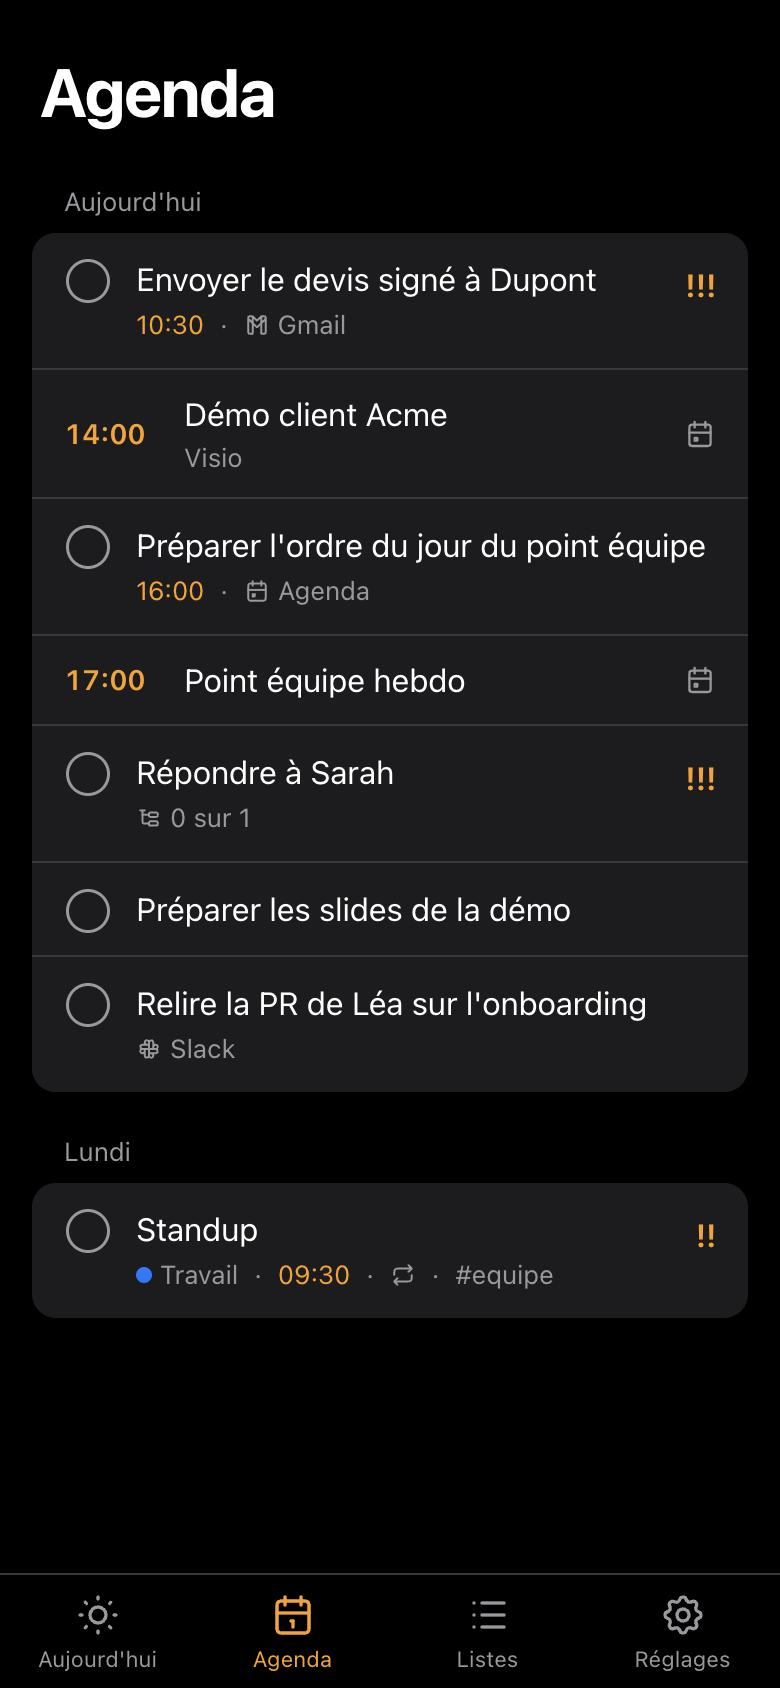
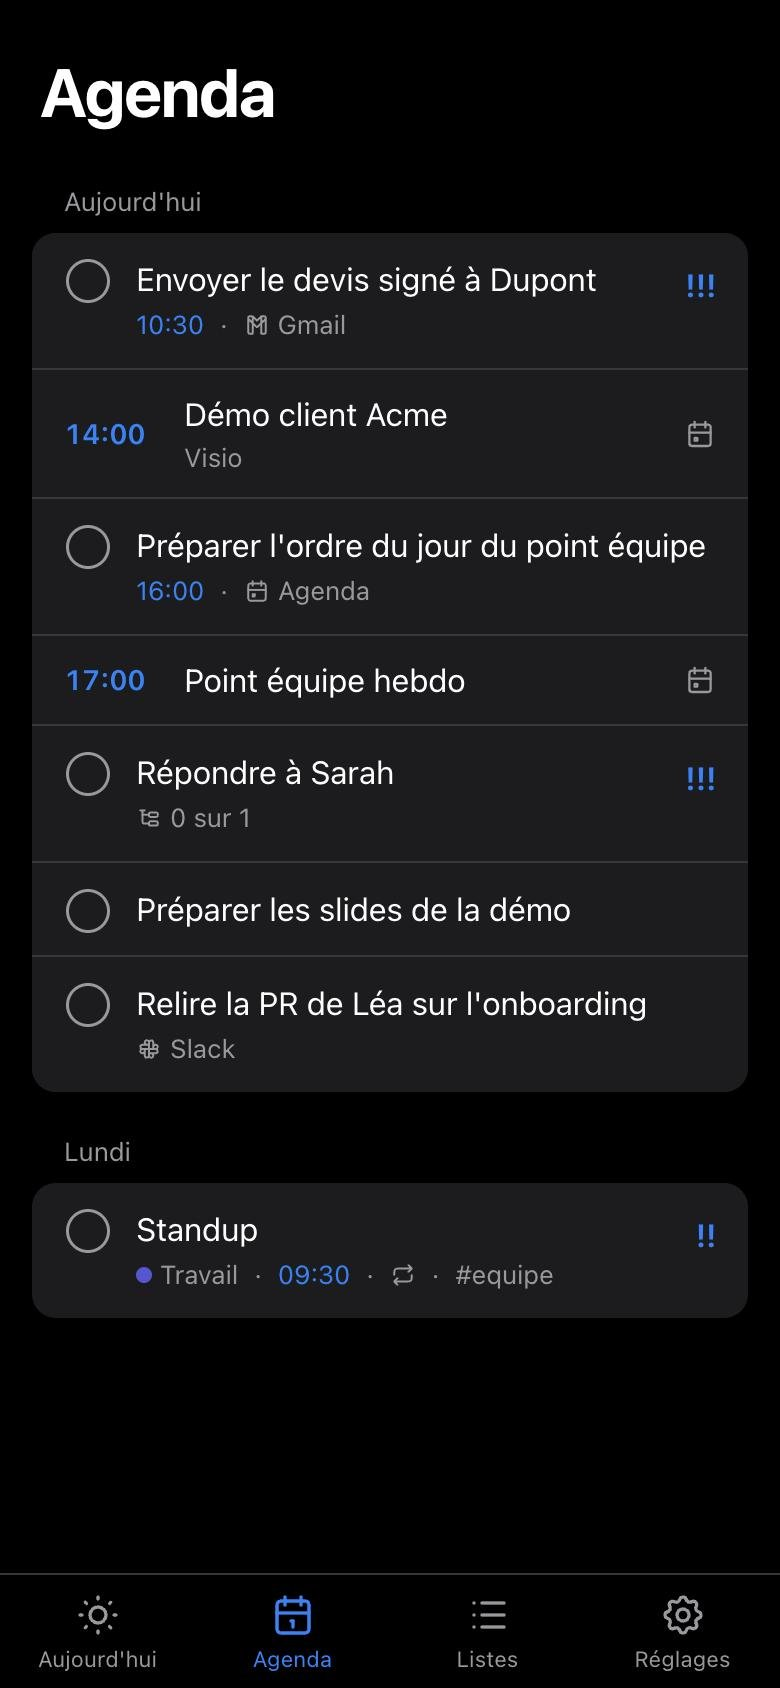
🎨 feat(landing): the app's colors, from the page to the screenshots
The landing page and README were orange; the app people install is iOS
blue on iOS grays. Visitors were sold a different-looking app.

- site/styles.css: the app's tokens (#f2f2f7 / white / black text in
  light, black / #1c1c1e / white in dark), system blue for accents and
  glows, #0071e3 for filled buttons (white labels at 4.7:1).
- New screenshots with the default blue accent, same demo content and
  framing as before (today, agenda, review, stats, rhythm, color step).
- README banners rebuilt with a blue glow; version badge in blue.
- theme-color metas follow the new backgrounds.
- D-013 records the decision.

diff --git a/site/styles.css b/site/styles.css
@@ -1,21 +1,23 @@
 /*
  * Taskly landing page. Plain CSS, no build step.
  * Shapes: interactive elements are pills, surfaces use --radius (24px).
- * One accent (the brand orange), light and dark from prefers-color-scheme.
+ * The app's own colors: iOS grays, and its default accent, system blue.
+ * Filled buttons use a deeper blue (#0071e3) so white labels stay above 4.5:1.
+ * Light and dark from prefers-color-scheme, like the app on "Auto".
  */
 
 :root {
-  --bg: #f5f3ed;
-  --surface: #fffdf8;
-  --surface-2: #ebe8e0;
-  --line: rgb(23 23 23 / 0.09);
-  --text: #171717;
-  --muted: #5e5c57;
-  --accent: #f5a623;
-  --accent-text: #8f5400;
-  --on-accent: #171717;
-  --glow: rgb(245 166 35 / 0.22);
-  --shadow: 0 24px 60px rgb(60 44 10 / 0.12);
+  --bg: #f2f2f7;
+  --surface: #ffffff;
+  --surface-2: #e5e5ea;
+  --line: rgb(60 60 67 / 0.12);
+  --text: #000000;
+  --muted: #6e6e73;
+  --accent: #0071e3;
+  --accent-text: #0066cc;
+  --on-accent: #ffffff;
+  --glow: rgb(0 122 255 / 0.2);
+  --shadow: 0 24px 60px rgb(0 30 80 / 0.12);
   --radius: 24px;
   --wrap: 1160px;
   --gutter: clamp(20px, 5vw, 40px);
@@ -28,15 +30,15 @@
 
 @media (prefers-color-scheme: dark) {
   :root {
-    --bg: #121212;
+    --bg: #000000;
     --surface: #1c1c1e;
-    --surface-2: #242426;
-    --line: rgb(245 243 237 / 0.08);
-    --text: #f5f3ed;
-    --muted: #a1a1a6;
-    --accent-text: #f5a623;
-    --glow: rgb(245 166 35 / 0.16);
-    --shadow: 0 24px 60px rgb(0 0 0 / 0.45);
+    --surface-2: #2c2c2e;
+    --line: rgb(255 255 255 / 0.1);
+    --text: #ffffff;
+    --muted: #98989d;
+    --accent-text: #2997ff;
+    --glow: rgb(10 132 255 / 0.22);
+    --shadow: 0 24px 60px rgb(0 0 0 / 0.6);
   }
 }
 

diff --git a/site/fr/index.html b/site/fr/index.html
@@ -6,8 +6,8 @@
     <title>Taskly · Ta journée, triée par Claude</title>
     <meta name="description" content="Une todo list du jour open source, à installer sur ton téléphone. Claude transforme tes mails, ton agenda et tes messages en checklist, avec des rappels qui sonnent vraiment.">
     <meta name="color-scheme" content="light dark">
-    <meta name="theme-color" content="#f5f3ed" media="(prefers-color-scheme: light)">
-    <meta name="theme-color" content="#121212" media="(prefers-color-scheme: dark)">
+    <meta name="theme-color" content="#f2f2f7" media="(prefers-color-scheme: light)">
+    <meta name="theme-color" content="#000000" media="(prefers-color-scheme: dark)">
     <meta property="og:type" content="website">
     <meta property="og:site_name" content="Taskly">
     <meta property="og:title" content="Taskly · Ta journée, triée par Claude">

diff --git a/site/index.html b/site/index.html
@@ -6,8 +6,8 @@
     <title>Taskly · Your day, sorted by Claude</title>
     <meta name="description" content="An open-source daily to-do app you install on your phone. Claude turns your mail, calendar and messages into one checklist, with reminders that actually ring.">
     <meta name="color-scheme" content="light dark">
-    <meta name="theme-color" content="#f5f3ed" media="(prefers-color-scheme: light)">
-    <meta name="theme-color" content="#121212" media="(prefers-color-scheme: dark)">
+    <meta name="theme-color" content="#f2f2f7" media="(prefers-color-scheme: light)">
+    <meta name="theme-color" content="#000000" media="(prefers-color-scheme: dark)">
     <meta property="og:type" content="website">
     <meta property="og:site_name" content="Taskly">
     <meta property="og:title" content="Taskly · Your day, sorted by Claude">

diff --git a/scripts/build-readme-art.py b/scripts/build-readme-art.py
@@ -15,7 +15,8 @@ os.makedirs(OUT, exist_ok=True)
 GRAPHITE = (23, 23, 23)
 IVORY = (245, 243, 237)
 GRAY = (161, 161, 166)
-ACCENT = (245, 166, 35)
+# The app's default accent (iOS blue, dark appearance), so the visuals look like what people install.
+ACCENT = (10, 132, 255)
 SS = 4  # supersampling for smooth curves
 
 
@@ -89,7 +90,7 @@ def pill(draw, x, y, text, f):
 def hero(lang, headline, sub, chips):
     W, H = 1760, 880
     base = Image.new("RGBA", (W, H), GRAPHITE + (255,))
-    # Warm glow behind the phones.
+    # Accent glow behind the phones.
     glow = Image.new("RGBA", (W, H), (0, 0, 0, 0))
     ImageDraw.Draw(glow).ellipse((880, 180, 1640, 940), fill=ACCENT + (70,))
     base = Image.alpha_composite(base, glow.filter(ImageFilter.GaussianBlur(140)))

diff --git a/scripts/build-site.py b/scripts/build-site.py
@@ -217,8 +217,8 @@ def page(t: dict) -> str:
     <title>{e(t["title"])}</title>
     <meta name="description" content="{e(t["description"])}">
     <meta name="color-scheme" content="light dark">
-    <meta name="theme-color" content="#f5f3ed" media="(prefers-color-scheme: light)">
-    <meta name="theme-color" content="#121212" media="(prefers-color-scheme: dark)">
+    <meta name="theme-color" content="#f2f2f7" media="(prefers-color-scheme: light)">
+    <meta name="theme-color" content="#000000" media="(prefers-color-scheme: dark)">
     <meta property="og:type" content="website">
     <meta property="og:site_name" content="Taskly">
     <meta property="og:title" content="{e(t["title"])}">

diff --git a/docs/design/DECISIONS.md b/docs/design/DECISIONS.md
@@ -108,3 +108,9 @@ With the MCP architecture, Taskly can't trigger Claude. The current idea is that
 - Graphite and ivory read well on both light and dark home screens.
 
 See [docs/brand](../brand/README.md) for the files and usage rules.
+
+## D-013 · The showcase wears the app's default colors
+
+**Context.** The landing page, the README banners and their screenshots used an orange accent (`#F5A623`). The app's default accent is iOS blue (D-002), so a visitor who installed Taskly got a blue app that looked nothing like the page that sold it.
+
+**Decision.** The landing page and the README visuals use the app's own tokens: iOS grays, black in dark mode, and system blue. Screenshots are taken with the default accent. Filled buttons on the landing page use `#0071e3`, a deeper blue, so white labels keep a 4.5:1 contrast. The logo stays graphite and ivory (D-012).

diff --git a/README.fr.md b/README.fr.md
@@ -3,7 +3,7 @@
 </p>
 
 <p align="center">
-  <a href="https://github.com/ethanfrq/Taskly/releases"><img src="https://img.shields.io/badge/version-0.5.0%20b%C3%AAta-F5A623" alt="Version 0.5.0 bêta"></a>
+  <a href="https://github.com/ethanfrq/Taskly/releases"><img src="https://img.shields.io/badge/version-0.5.0%20b%C3%AAta-0A84FF" alt="Version 0.5.0 bêta"></a>
   <a href="LICENSE"><img src="https://img.shields.io/badge/licence-MIT-blue" alt="Licence MIT"></a>
   <img src="https://img.shields.io/badge/PWA-iPhone%20%C2%B7%20Android%20%C2%B7%20Ordinateur-171717" alt="PWA pour iPhone, Android et ordinateur">
   <img src="https://img.shields.io/badge/Claude-connecteur%20MCP-D97757" alt="Connecteur MCP pour Claude">

diff --git a/README.md b/README.md
@@ -3,7 +3,7 @@
 </p>
 
 <p align="center">
-  <a href="https://github.com/ethanfrq/Taskly/releases"><img src="https://img.shields.io/badge/version-0.5.0%20beta-F5A623" alt="Version 0.5.0 beta"></a>
+  <a href="https://github.com/ethanfrq/Taskly/releases"><img src="https://img.shields.io/badge/version-0.5.0%20beta-0A84FF" alt="Version 0.5.0 beta"></a>
   <a href="LICENSE"><img src="https://img.shields.io/badge/license-MIT-blue" alt="MIT license"></a>
   <img src="https://img.shields.io/badge/PWA-iPhone%20%C2%B7%20Android%20%C2%B7%20Desktop-171717" alt="PWA for iPhone, Android and desktop">
   <img src="https://img.shields.io/badge/Claude-MCP%20connector-D97757" alt="Claude MCP connector">
